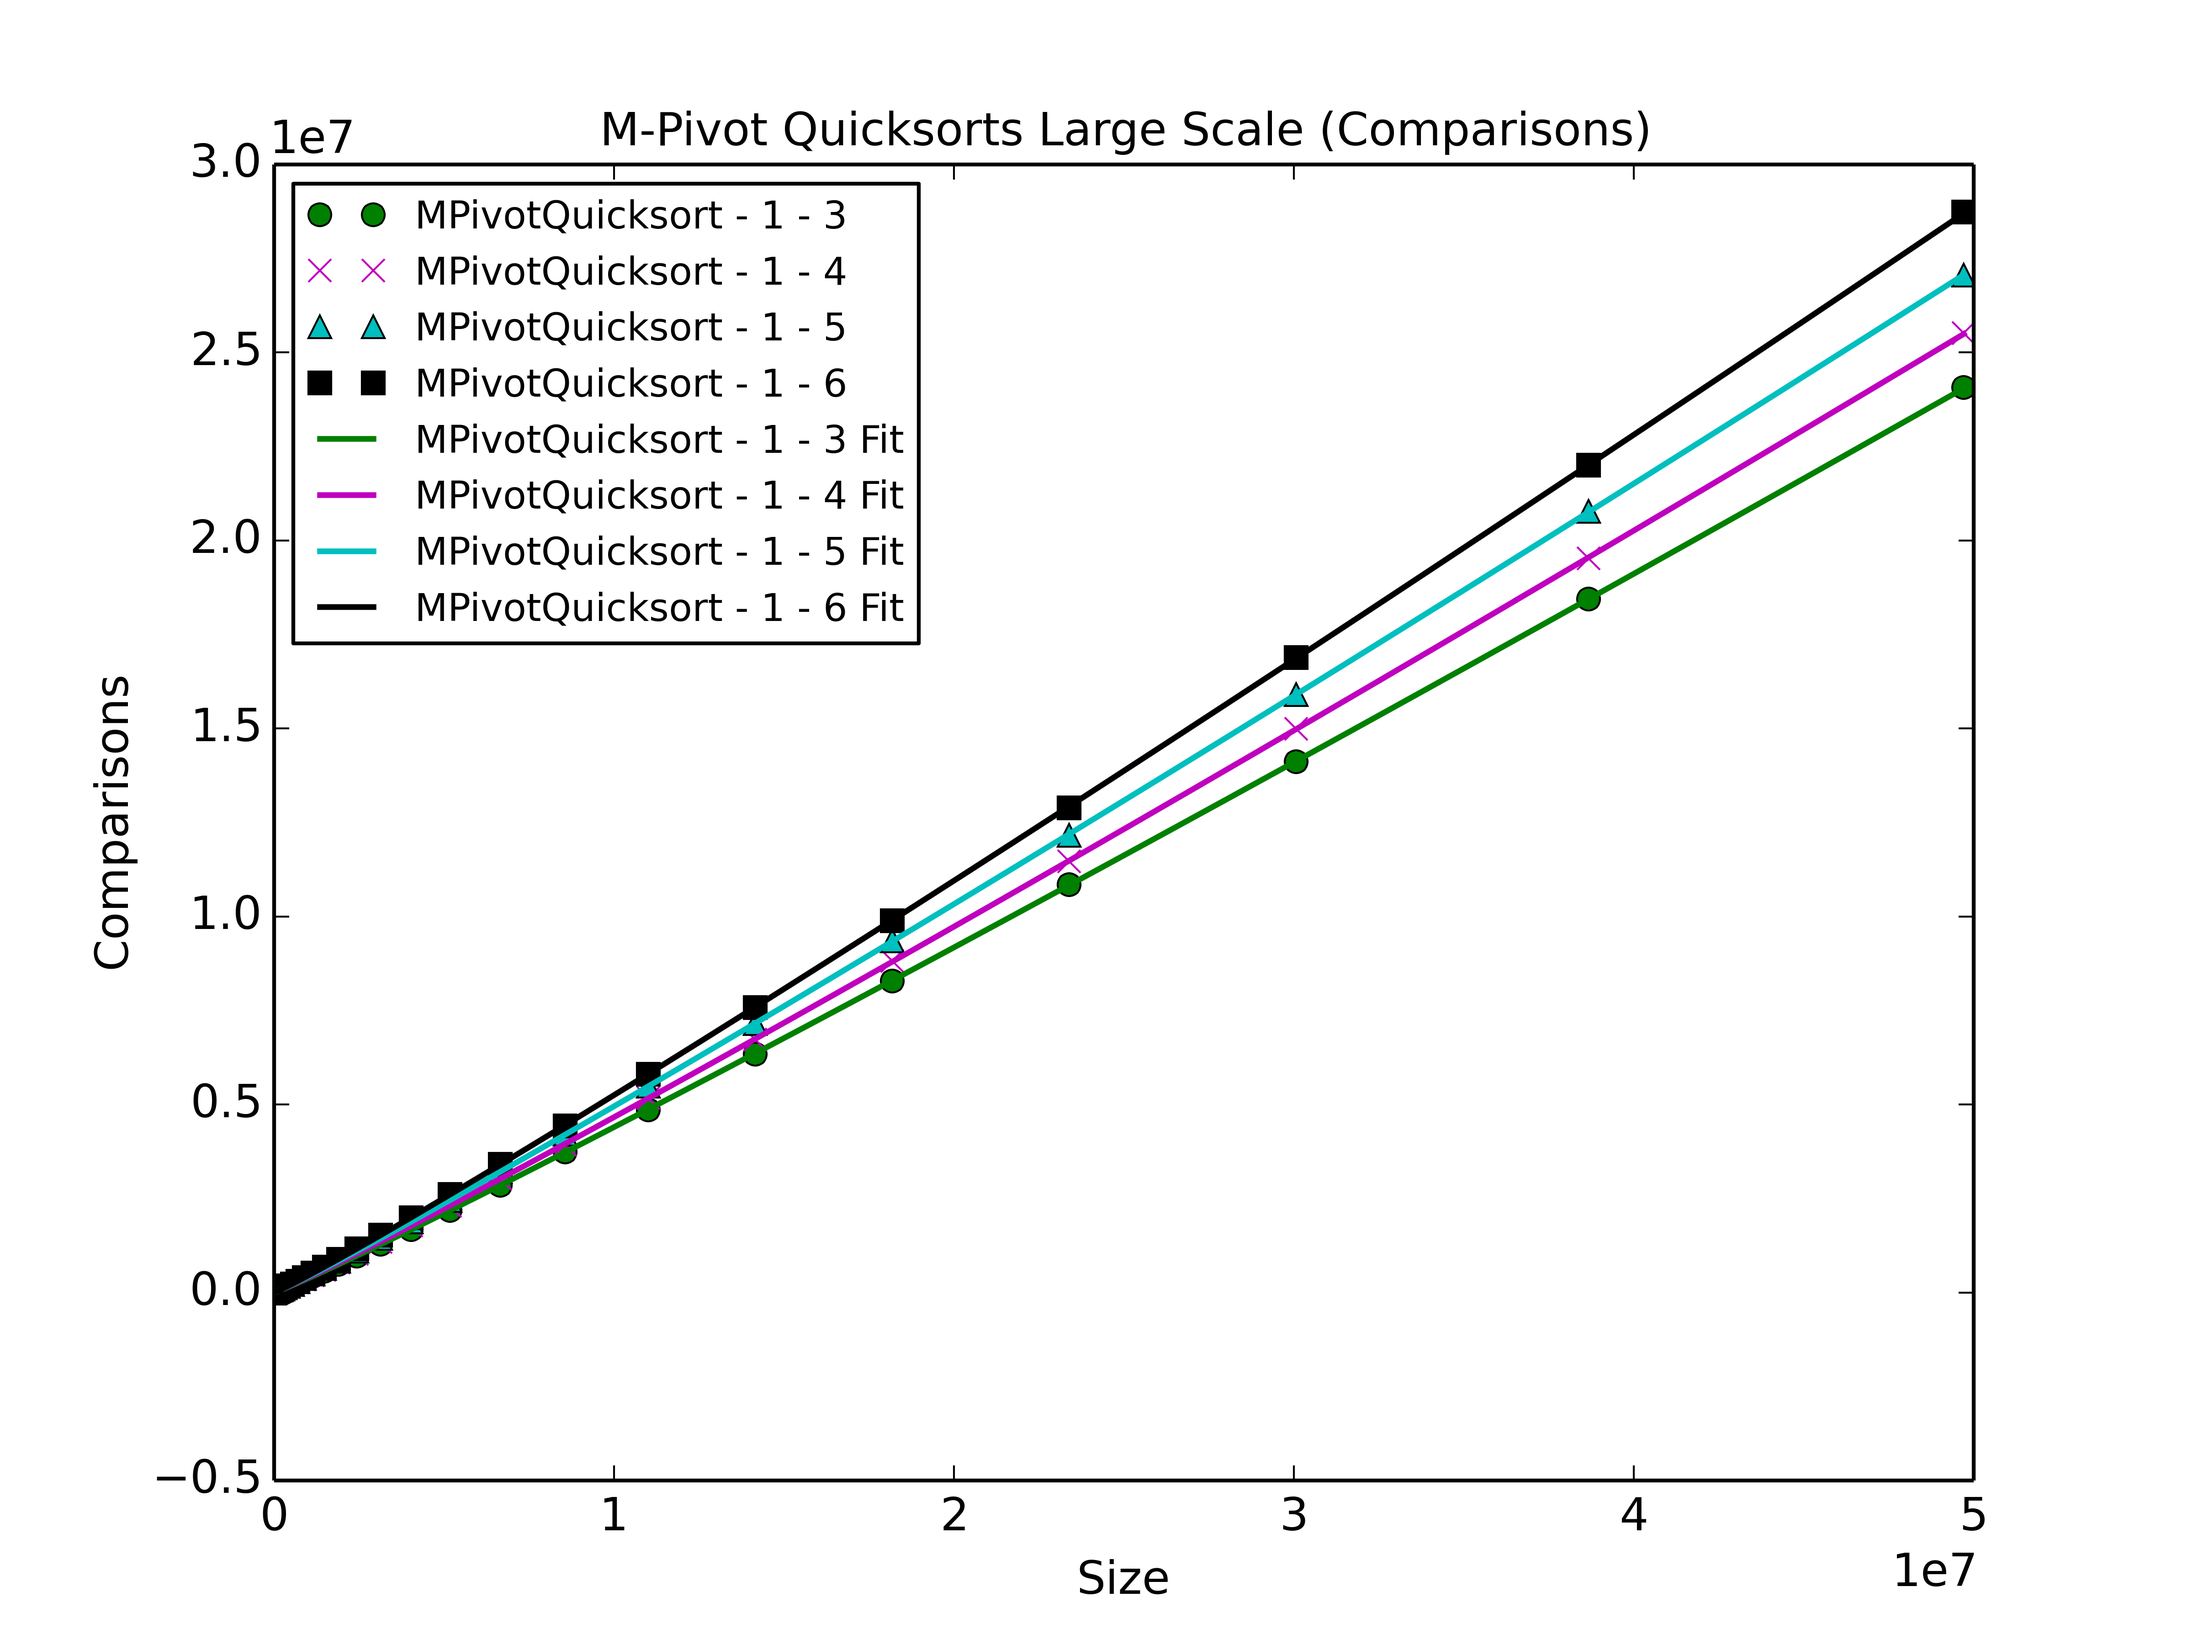
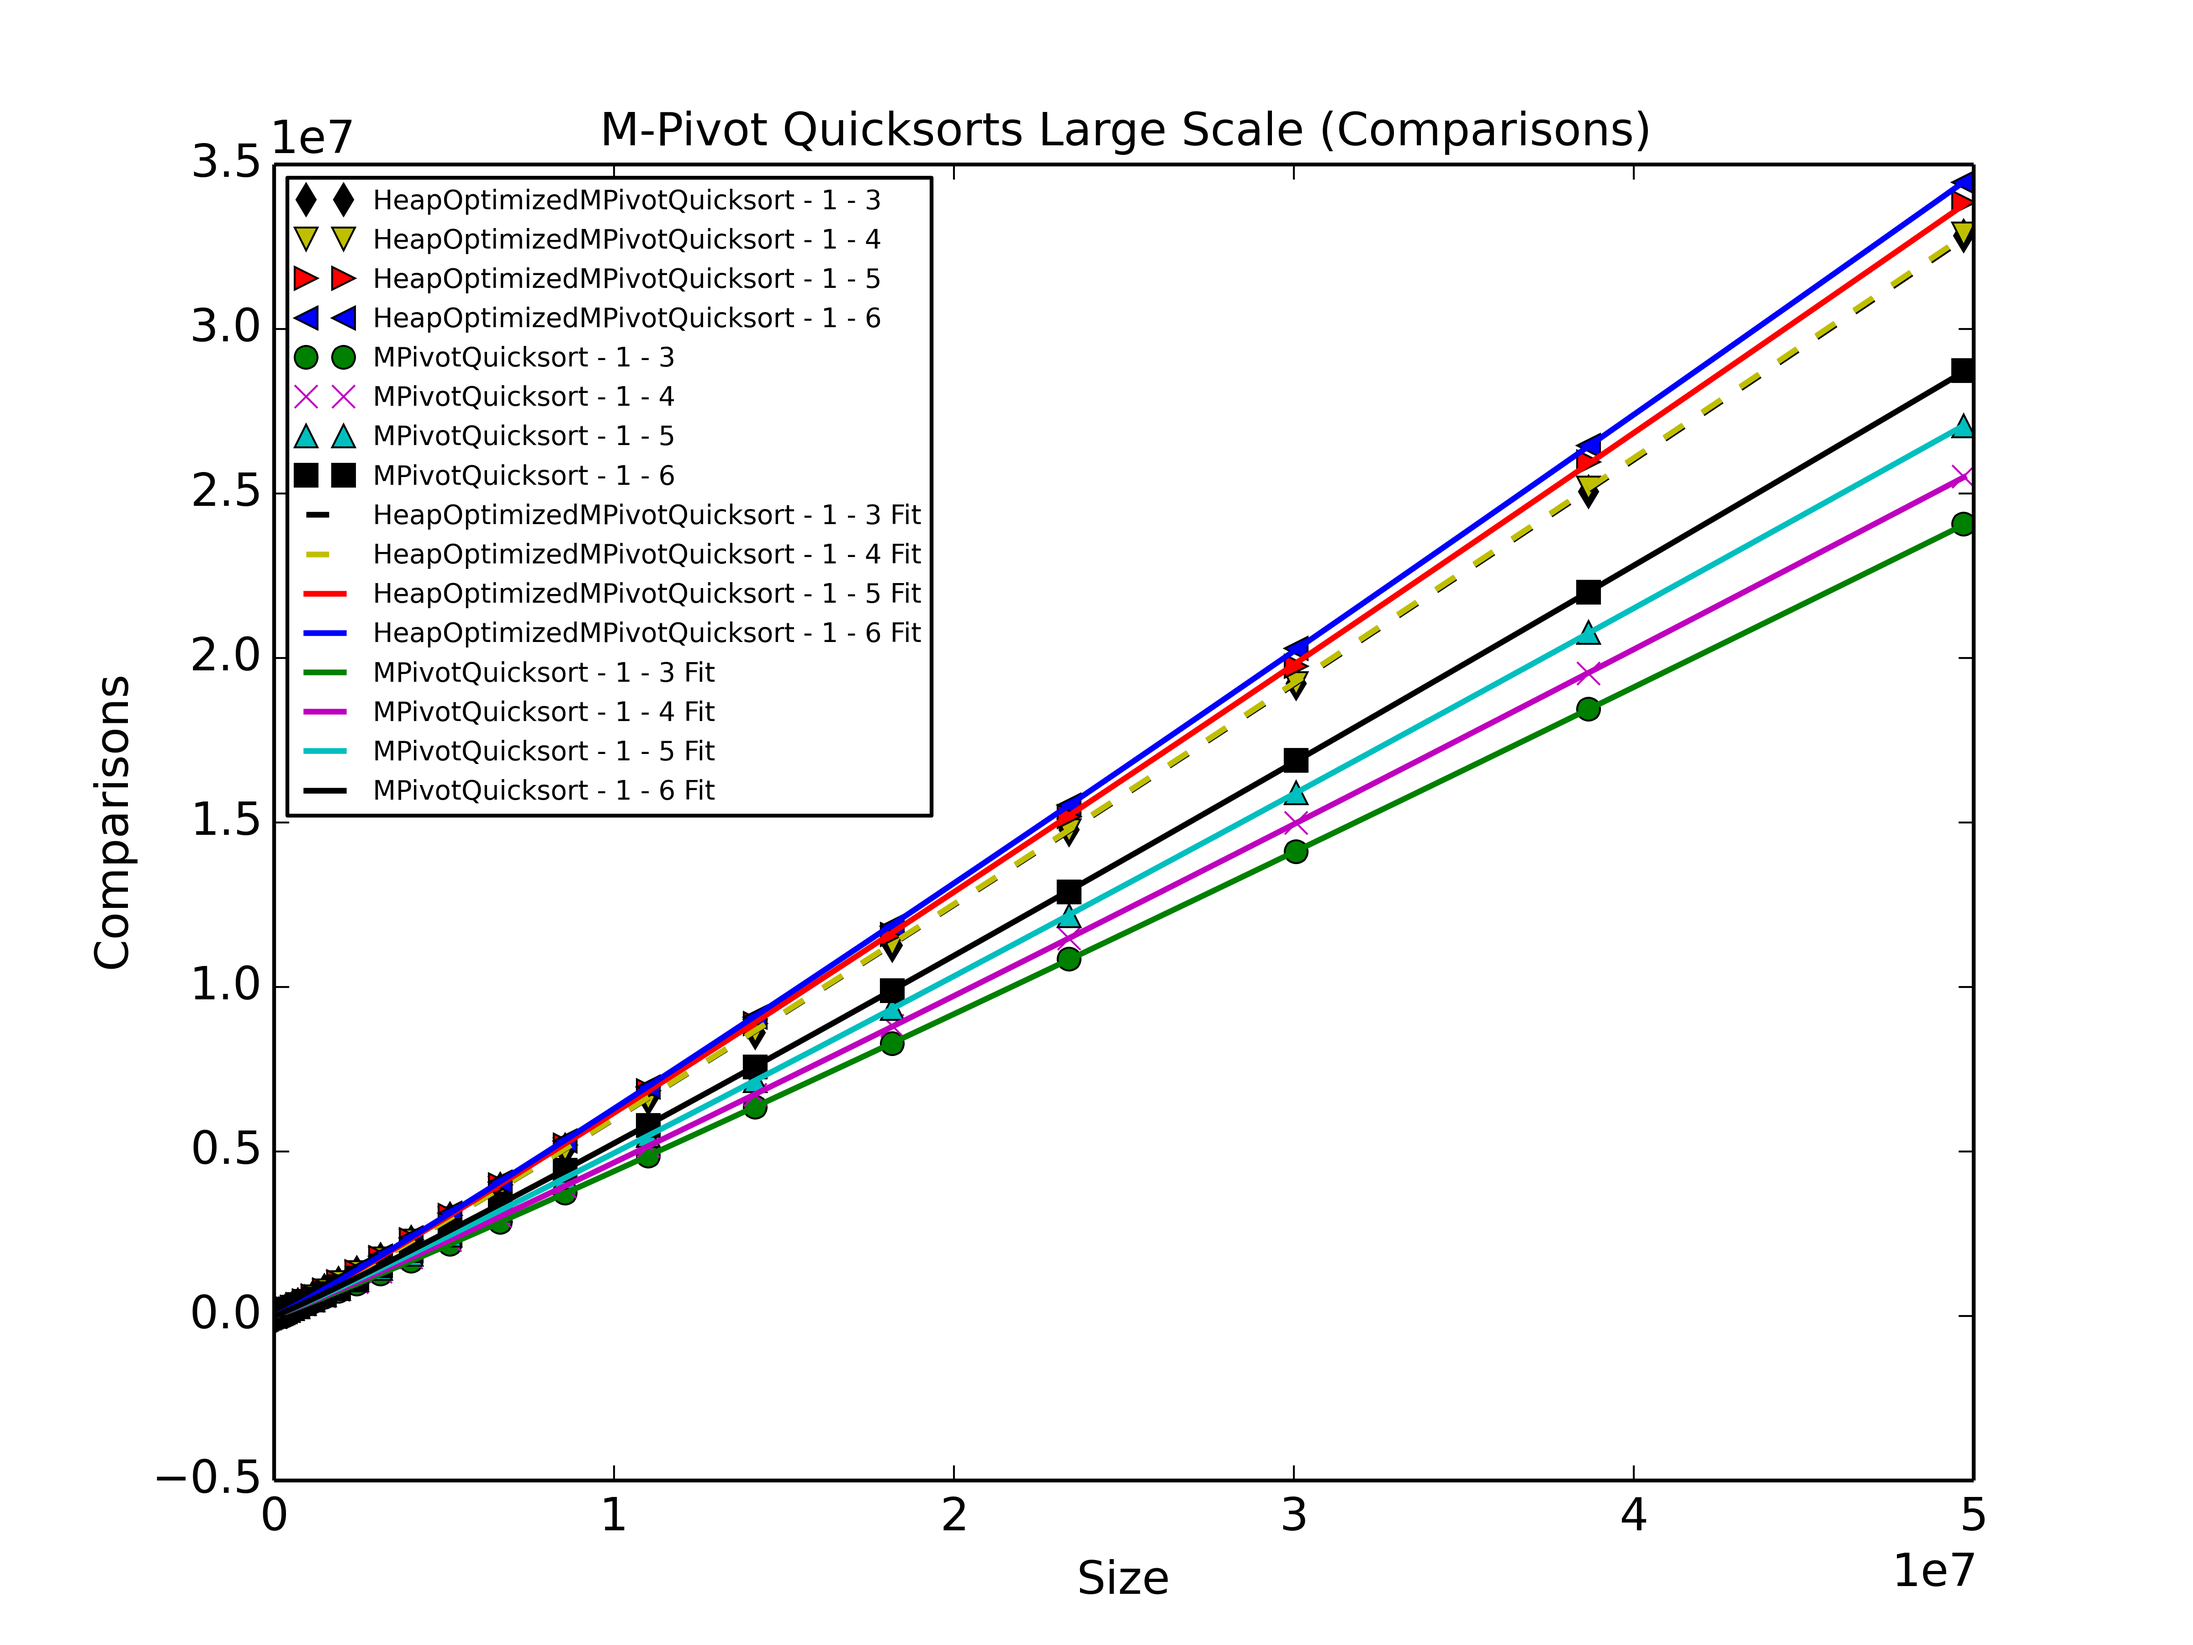
Fixed a few bugs in the recent plotting commands. Rescalled some of the legends with figures having many plots.

diff --git a/Code/Analysis/dataAnalysis.py b/Code/Analysis/dataAnalysis.py
@@ -650,7 +650,7 @@ def main():
 
     customPlot = lambda x: classicQuickSortOnly(x) or dualPivotQuicksortOnly(x) or threePivotQuicksortOnly(x) or mPivotQuicksortOnly3(x)
 
-    allMPivotQuicksortKinds = lambda x: x[0] in 'MPivotQuicksort'
+    allMPivotQuicksortKinds = lambda x: mPivotQuicksortOnly(x) or heapOptimizedMPivotQuicksortOnly(x)
 
     data = getData(dataAbsPath)
 
@@ -671,15 +671,21 @@ def main():
 
     #plotDataAndFit(data,fitParameters, plotTitle = 'Legend Plot', connectDataPoints = True,legendSize=15,savePlot=True)
     
-    plotDataAndFit(data,fitParameters, plotTitle = 'All the Plots Small Scale',xlim = smallScaleLimits, connectDataPoints = True,makeLegend=False,savePlot=True)
-    plotDataAndFit(data,fitParameters, plotTitle = 'All the Plots Large Scale', connectDataPoints = True,makeLegend=False,savePlot = True)
-    plotDataAndFit(data,fitParameters, plotTitle = 'Semilogx All Plots Large Scale ', connectDataPoints = True,makeLegend=False,savePlot = True,plotter = plt.semilogx)
+    #plotDataAndFit(data,fitParameters, plotTitle = 'All the Plots Small Scale',xlim = smallScaleLimits, connectDataPoints = True,makeLegend=False,savePlot=True)
+    #plotDataAndFit(data,fitParameters, plotTitle = 'All the Plots Large Scale', connectDataPoints = True,makeLegend=False,savePlot = True)
+    #plotDataAndFit(data,fitParameters, plotTitle = 'Semilogx All Plots Large Scale ', connectDataPoints = True,makeLegend=False,savePlot = True,plotter = plt.semilogx)
 
-    for maskFunc,plotTitle in zip(maskFunctionList,maskFunctionTitleList):
-        plotDataAndFit(data, fitParameters,goodFunction = maskFunc, plotTitle = plotTitle+" Large Scale",savePlot = True)
+    #for maskFunc,plotTitle in zip(maskFunctionList,maskFunctionTitleList):
+    #    plotDataAndFit(data, fitParameters,goodFunction = maskFunc, plotTitle = plotTitle+" Large Scale",savePlot = True)
     
-    for maskFunc,plotTitle in zip(maskFunctionList,maskFunctionTitleList):
-        plotDataAndFit(data, fitParameters,goodFunction = maskFunc, plotTitle = plotTitle+" Small Scale", xlim =smallScaleLimits,connectDataPoints = True,savePlot = True)    
+    #for maskFunc,plotTitle in zip(maskFunctionList,maskFunctionTitleList):
+    #    plotDataAndFit(data, fitParameters,goodFunction = maskFunc, plotTitle = plotTitle+" Small Scale", xlim =smallScaleLimits,connectDataPoints = True,savePlot = True)    
+
+
+    plotDataAndFit(data,fitParameters, goodFunction = allMPivotQuicksortKinds, plotTitle = "M-Pivot Quicksorts Large Scale",savePlot = True,legendSize=7)
+    plotDataAndFit(data,fitParameters, goodFunction = allMPivotQuicksortKinds, plotTitle = "M-Pivot Quicksorts Small Scale",xlim = smallScaleLimits,connectDataPoints = True,savePlot = True,legendSize=7)
+
+
 
     #plotDataAndFit(data,fitParameters, goodFunction = customPlot, plotTitle = plotTitle+" Large Scale",savePlot = True)
     #plotDataAndFit(data,fitParameters, goodFunction = customPlot, plotTitle = 'customPlot',xlim = smallScaleLimits,connectDataPoints = True,savePlot = True)
